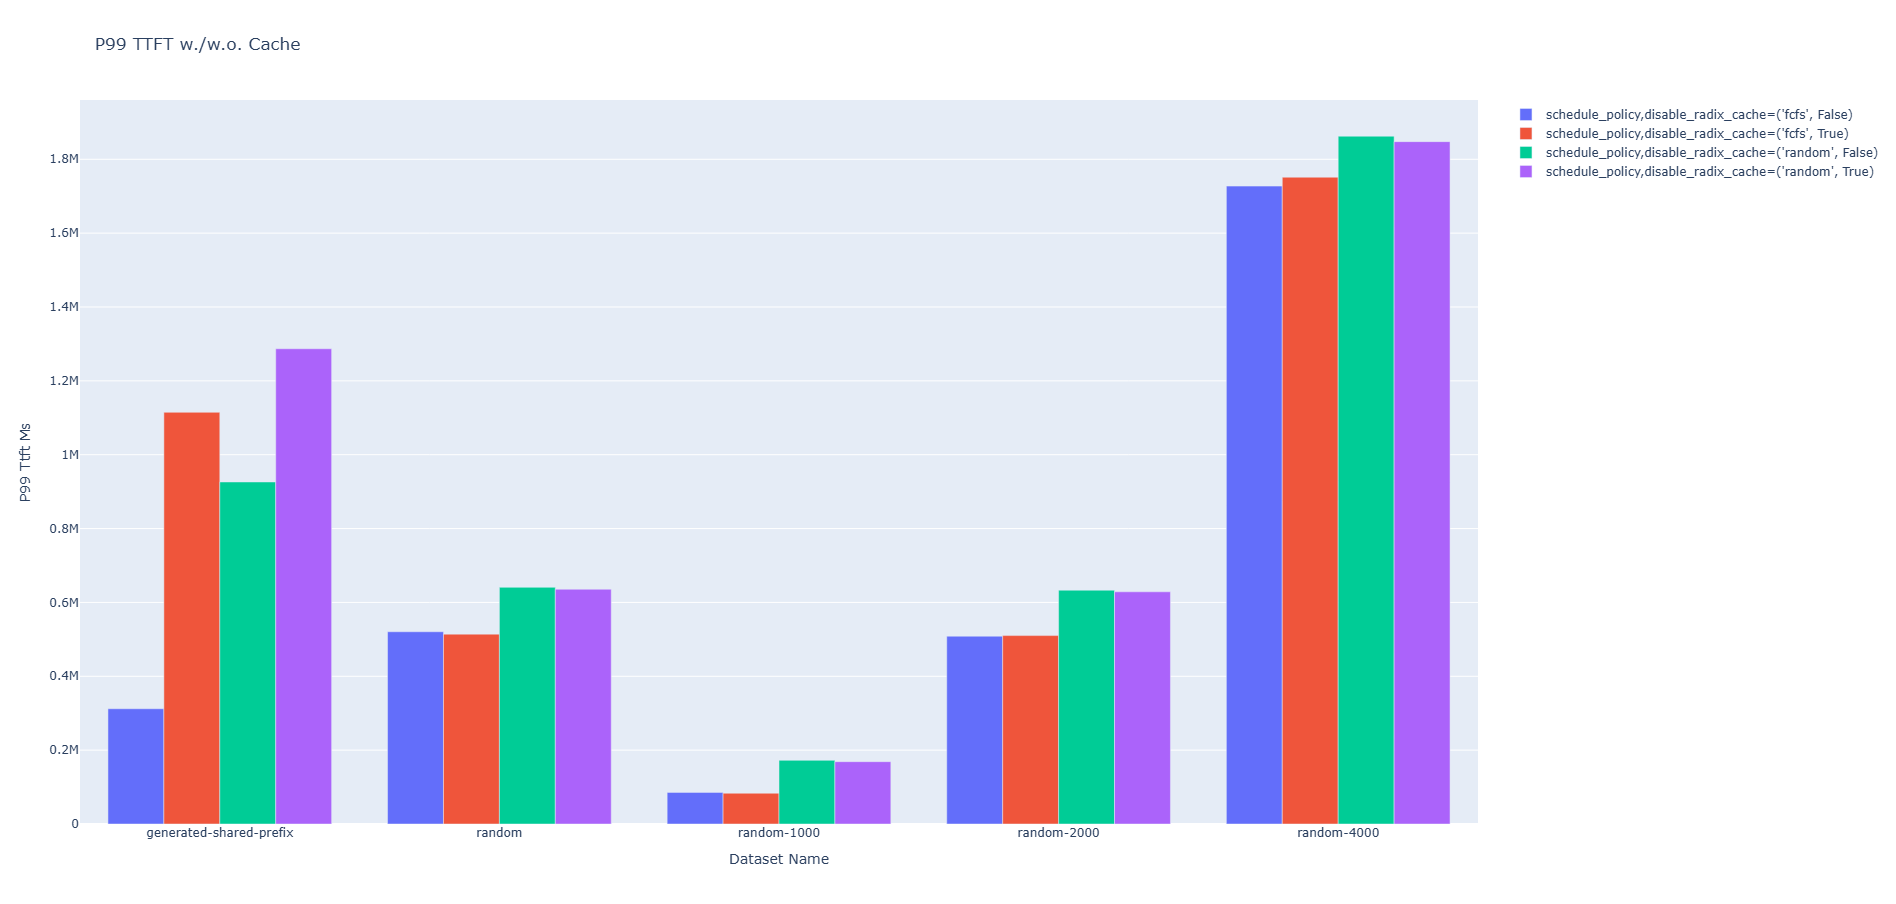
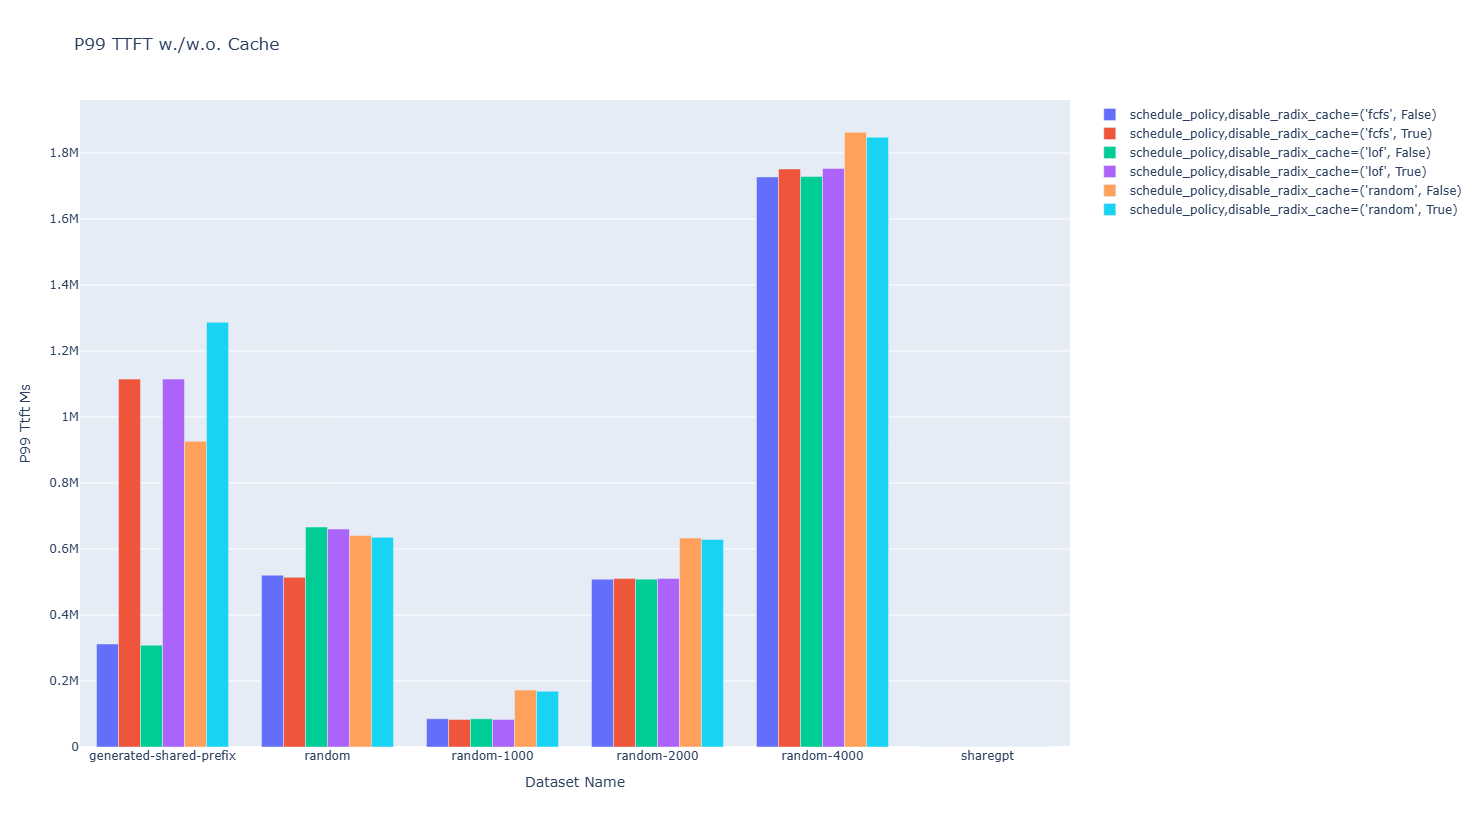
[doc] update section for w./w.o. cache

Changed region(s): [[0.0, 0.0907, 0.9946, 0.9674], [0.0311, 0.0302, 0.1865, 0.0605]]

diff --git a/docs/benchmark/benchmark.md b/docs/benchmark/benchmark.md
@@ -108,14 +108,23 @@ To have a better visualization, normalize TTFT latency using the first value of 
 
 ### Performance Metrics With and Without Radix Cache
 
+**Output Throughput:**
 <p align="center">
 <img src="https://raw.githubusercontent.com/wangraying/sglang/refs/heads/v0.3.5.post2-dev/docs/images/output-throughput-w-wo-cache.png" alt="Output Throughput" style="width:80%; height:auto;"/>
 </p>
 
+**TTFT Latency:**
 <p align="center">
 <img src="https://raw.githubusercontent.com/wangraying/sglang/refs/heads/v0.3.5.post2-dev/docs/images/p99-ttft-w-wo-cache.png" alt="P99 TTFT Latency" style="width:80%; height:auto;"/>
 </p>
 
+To have a better visualization, normalize TTFT latency using the first value of each group.
+
+<p align="center">
+<img src="https://raw.githubusercontent.com/wangraying/sglang/refs/heads/v0.3.5.post2-dev/docs/images/p99-ttft-w-wo-cache-normalized.png" alt="P99 TTFT Latency" style="width:80%; height:auto;"/>
+</p>
+
+**ITL Latency:**
 <p align="center">
 <img src="https://raw.githubusercontent.com/wangraying/sglang/refs/heads/v0.3.5.post2-dev/docs/images/p99-itl-w-wo-cache.png" alt="P99 ITL Latency" style="width:80%; height:auto;"/>
 </p>
